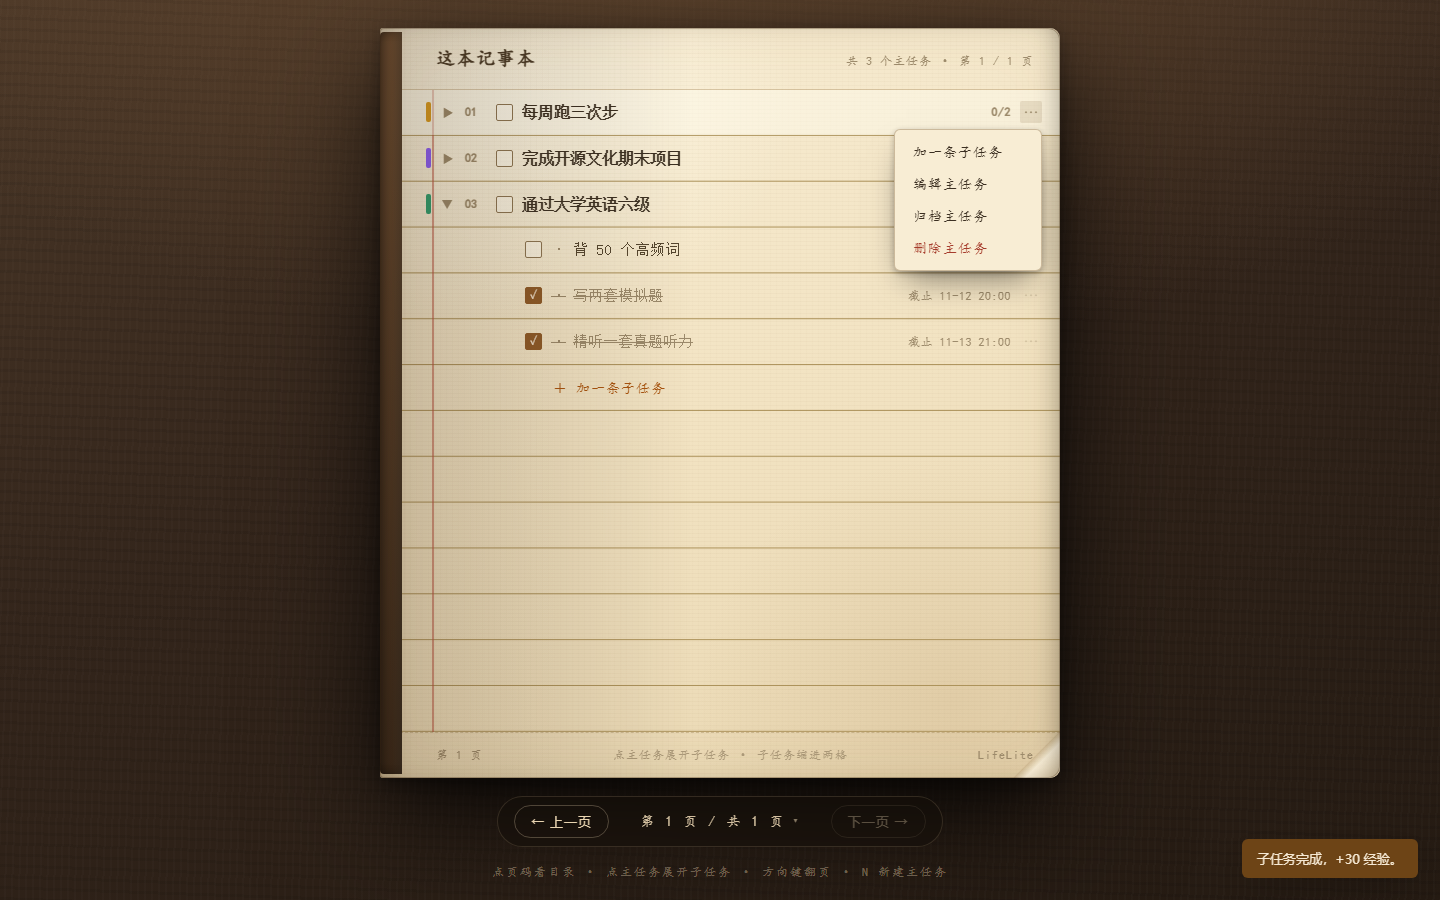
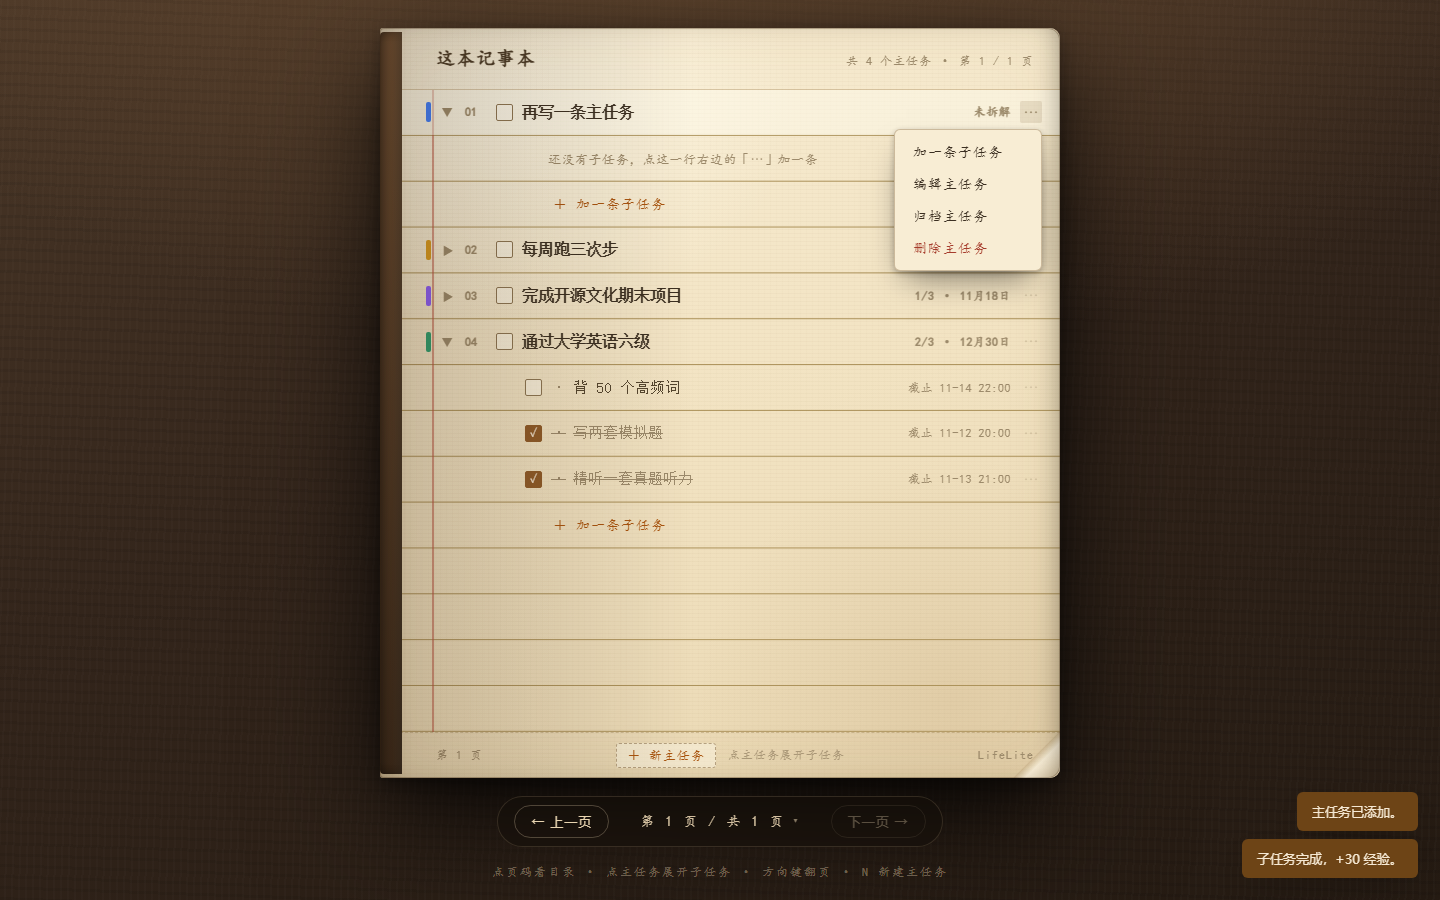
fix(ui): 任务页页脚常驻新增主任务入口，缓存升到 v4

diff --git a/tests/browser-check.js b/tests/browser-check.js
@@ -191,6 +191,19 @@ function findChrome() {
   ok('默认收起子任务', collapsed.subs === 0);
   await page.screenshot({ path: path.join(SHOTS, 'notebook-tasks.png') });
 
+  // 3.5 页脚入口：加完一条还能继续加
+  ok('任务页页脚有新增入口', Boolean(await page.$('.foot-add')));
+  await page.click('.foot-add');
+  await new Promise((r) => setTimeout(r, 300));
+  ok('页脚入口能再次打开新建对话框', await page.evaluate(() => document.getElementById('goal-dialog').open));
+  await page.type('#goal-title', '再写一条主任务');
+  await page.evaluate(() => {
+    document.getElementById('goal-form').dispatchEvent(new Event('submit', { bubbles: true, cancelable: true }));
+  });
+  await new Promise((r) => setTimeout(r, 500));
+  ok('添加后纸上出现新主任务', await page.evaluate(() => document.body.innerText.indexOf('再写一条主任务') >= 0));
+  ok('添加后主任务数量增加', (await page.evaluate(() => document.querySelectorAll('.line--goal').length)) >= 4);
+
   await page.click('.line--goal[data-goal-id="g_1"]');
   await new Promise((r) => setTimeout(r, 350));
   const expanded = await page.evaluate(() => ({

diff --git a/css/style.css b/css/style.css
@@ -269,6 +269,34 @@ a {
   opacity: 0.8;
 }
 
+.foot-center {
+  display: flex;
+  align-items: center;
+  gap: 12px;
+  min-width: 0;
+}
+
+.foot-add {
+  padding: 4px 10px;
+  border: 1px dashed rgba(120, 90, 50, 0.5);
+  border-radius: 3px;
+  background: rgba(255, 250, 235, 0.45);
+  font-family: var(--font-hand);
+  font-size: 13px;
+  letter-spacing: 1px;
+  color: #a9540f;
+  transition: background-color 0.16s ease, border-color 0.16s ease;
+}
+
+.foot-add:hover {
+  background: rgba(200, 106, 34, 0.12);
+  border-color: #c86a22;
+}
+
+.foot-add:active {
+  transform: translateY(1px);
+}
+
 /* 14 行固定行距 */
 .sheet-body {
   position: relative;

diff --git a/js/book.js b/js/book.js
@@ -434,7 +434,12 @@
       '<span>' +
       (currentPageLabel().short || '') +
       '</span>' +
-      '<span class="foot-hint">点主任务展开子任务 · 子任务缩进两格</span>' +
+      '<span class="foot-center">' +
+      (state.mode === 'archived'
+        ? ''
+        : '<button class="foot-add" type="button" data-act="new-goal">＋ 新主任务</button>') +
+      '<span class="foot-hint">点主任务展开子任务</span>' +
+      '</span>' +
       '<span>' +
       (state.mode === 'archived' ? '归档箱' : 'LifeLite') +
       '</span>' +

diff --git a/sw.js b/sw.js
@@ -16,7 +16,7 @@
 
 'use strict';
 
-const CACHE_VERSION = 'lifelite-v3';
+const CACHE_VERSION = 'lifelite-v4';
 const CACHE_NAME = CACHE_VERSION;
 
 /* 应用外壳：只要这些文件在，断网也能完整使用 */

diff --git a/tests/manual-checklist.md b/tests/manual-checklist.md
@@ -21,7 +21,7 @@
 | # | 操作 | 期望结果 | 通过 |
 | --- | --- | --- | --- |
 | 1 | 双击 `index.html` | 木桌上出现橙色封面，书名、年份、导出/导入与「翻开第一页」都在；控制台无阻塞性报错 | ☐ |
-| 2 | 点「翻开第一页」两次进入任务页，点「＋ 写下第一条主任务」新建「通过英语六级」 | 新主任务出现在纸上第一行，带序号、色条、复选框；弹「主任务已添加。」 | ☐ |
+| 2 | 点「翻开第一页」两次进入任务页，点「＋ 写下第一条主任务」新建「通过英语六级」；再从页脚「＋ 新主任务」加第二条 | 两条都能写进纸上并带序号；页脚入口一直可用，不会加完一条就消失 | ☐ |
 | 3 | 点该行行尾「⋯」→「加一条子任务」，连续建 3 条 | 子任务缩进两字符逐行排在主任务下，行尾显示经验或截止；提交后自动展开 | ☐ |
 | 4 | 点击主任务行本体两次 | 第一次展开、第二次收起；箭头方向与 `aria-expanded` 同步；展开后行数变化、分页自动重算 | ☐ |
 | 5 | 行尾菜单「归档主任务」，翻到扉页点「打开归档箱」，再点「恢复到记事本」 | 归档后从记事本消失；归档箱里能找回，恢复后回到原位置 | ☐ |

diff --git a/README.md b/README.md
@@ -52,7 +52,7 @@
 
 | 编号 | 功能 | 说明 |
 | --- | --- | --- |
-| F1 | 主任务 | 逐行写进记事本；新建、编辑、归档、删除；行上显示完成数与截止日期 |
+| F1 | 主任务 | 逐行写进记事本；页脚「＋ 新主任务」随时继续写，可编辑、归档、删除 |
 | F2 | 子任务 | 必须挂在主任务下；展开后缩进两字符跟随，可勾选完成、编辑、删除 |
 | F3 | 进度 | 主任务行右侧显示「已完成 / 总数」，逾期标红；没有子任务显示「未拆解」 |
 | F4 | 打卡与连续天数 | 扉页打卡，每天一次；最近八周热力图 |
